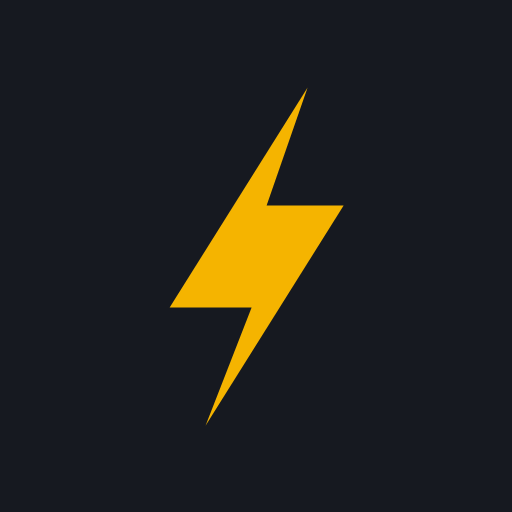
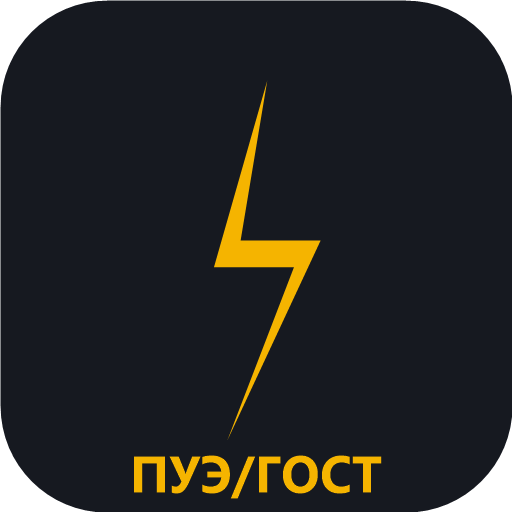
Add files via upload

diff --git a/index.html b/index.html
@@ -6,14 +6,14 @@
 <meta name="theme-color" content="#0d0f13">
 <meta name="apple-mobile-web-app-capable" content="yes">
 <meta name="apple-mobile-web-app-status-bar-style" content="black-translucent">
-<meta name="apple-mobile-web-app-title" content="Электросово">
-<meta name="description" content="Офлайн-справочник по нормам электромонтажа в квартирах и частных домах. ПУЭ-7, ГОСТ Р 50571, СП 256.">
+<meta name="apple-mobile-web-app-title" content="ПУЭ/ГОСТ">
+<meta name="description" content="ПУЭ/ГОСТ — офлайн-справочник по нормам электромонтажа в квартирах и частных домах. ПУЭ-7, ГОСТ Р 50571, СП 256.">
 <meta name="mobile-web-app-capable" content="yes">
 <link rel="manifest" href="manifest.webmanifest">
 <link rel="apple-touch-icon" href="icons/apple-touch-icon.png">
 <link rel="icon" type="image/svg+xml" href="icons/icon-192x192.svg">
 <link rel="icon" type="image/png" href="icons/icon-192.png">
-<title>Справочник электромонтажника</title>
+<title>ПУЭ/ГОСТ</title>
 <style>
 *{box-sizing:border-box;margin:0;padding:0}
 :root{
@@ -29,10 +29,12 @@ body{
   background:radial-gradient(ellipse at top left,rgba(245,180,0,.06),transparent 45%),
   radial-gradient(ellipse at bottom right,rgba(193,122,74,.07),transparent 50%),var(--bg);
   color:var(--txt);font-family:system-ui,-apple-system,BlinkMacSystemFont,'Segoe UI',sans-serif;
-  padding:16px 16px calc(72px + var(--safe-b));
+  padding:calc(92px + env(safe-area-inset-top)) 16px calc(72px + var(--safe-b));
   min-height:100vh;min-height:100dvh;
   -webkit-font-smoothing:antialiased;-webkit-tap-highlight-color:transparent;
 }
+.tbrand{position:fixed;top:0;left:0;right:0;z-index:85;height:74px;display:flex;align-items:center;justify-content:center;padding-top:env(safe-area-inset-top);background:linear-gradient(180deg,rgba(13,15,19,.96),rgba(13,15,19,.82) 72%,transparent);pointer-events:none;text-align:center;user-select:none}
+.tbrand span{color:var(--am);font-size:clamp(24px,6.5vw,38px);font-weight:900;letter-spacing:.24em;text-indent:.24em;text-shadow:0 0 26px rgba(245,180,0,.4)}
 .app{max-width:700px;margin:0 auto}
 
 .splash{position:fixed;inset:0;z-index:9999;background:var(--bg);display:flex;flex-direction:column;align-items:center;justify-content:center;transition:opacity .4s}
@@ -40,7 +42,7 @@ body{
 .splash svg{width:80px;height:80px;margin-bottom:16px}
 .splash p{color:var(--mut);font-size:14px;font-weight:600}
 
-.offline-banner{display:none;position:fixed;top:0;left:0;right:0;z-index:80;background:var(--dng);color:#fff;text-align:center;padding:8px;font-size:13px;font-weight:600}
+.offline-banner{display:none;position:fixed;top:calc(80px + env(safe-area-inset-top));left:14px;right:14px;z-index:84;background:var(--dng);color:#fff;text-align:center;padding:8px;border-radius:10px;font-size:13px;font-weight:600}
 .offline-banner.show{display:block}
 
 .install-banner{display:none;position:fixed;bottom:calc(68px + var(--safe-b));left:12px;right:12px;background:linear-gradient(135deg,var(--panel),var(--panel2));border:1px solid var(--am);border-radius:14px;padding:16px;z-index:100;box-shadow:0 8px 30px rgba(245,180,0,.2)}
@@ -190,6 +192,23 @@ mark{background:rgba(245,180,0,.25);color:var(--amb);padding:0 2px;border-radius
 .calc button{margin-top:12px;background:var(--am);color:#0d0f13;border:none;padding:10px;border-radius:8px;font-size:13px;font-weight:700;cursor:pointer;width:100%}
 .calc button:active{transform:scale(.97)}
 
+/* ---- Сечение кабеля (справочник + калькулятор) ---- */
+#kcTable{min-width:600px}
+.kc-g{text-align:center;white-space:nowrap}
+.kc-g.closed{color:var(--blue)}
+.sec-badge{min-width:78px;text-align:center;padding:10px 12px;border-radius:10px;background:linear-gradient(180deg,var(--amb),var(--am));color:#0d0f13}
+.sec-badge b{display:block;font-size:22px;line-height:1.1}
+.sec-badge span{font-size:10px;opacity:.85}
+.resbox{background:rgba(245,180,0,.06);border:1px solid var(--bdr);border-radius:8px;padding:12px;font-size:12px;line-height:1.6}
+.resbox b{color:var(--amb)}
+.resbox ul{margin:10px 0 0;padding-left:18px}
+.resbox ul li{margin:4px 0}
+.sw-cu,.sw-al,.sw-o,.sw-c{display:inline-block;width:12px;height:12px;border-radius:3px;flex:none}
+.sw-cu{background:#c96f1b}
+.sw-al{background:#8a93a3}
+.sw-o{background:repeating-linear-gradient(45deg,#f5b301 0 5px,#1d1d1f 5px 10px)}
+.sw-c{background:repeating-linear-gradient(135deg,#4a90d9 0 5px,#173f78 5px 10px)}
+
 .radio-row{display:flex;gap:8px;flex-wrap:wrap;align-items:center}
 .radio-row label{display:inline-flex;align-items:center;gap:5px;font-size:12px;color:var(--mut);cursor:pointer}
 
@@ -199,7 +218,7 @@ mark{background:rgba(245,180,0,.25);color:var(--amb);padding:0 2px;border-radius
   body{background:#fff;color:#000;padding:10px}
   .card,.pnl{background:#fff;border:1px solid #ddd}
   .cat-h{background:#f5f5f5;color:#000}
-  .bnav,.install-banner,.acts,.sw,.offline-banner,.splash{display:none!important}
+  .bnav,.install-banner,.acts,.sw,.offline-banner,.splash,.tbrand{display:none!important}
   .cat-b{max-height:none!important;padding:12px!important}
   th{color:#333;background:#eee}
   table{background:#fff}
@@ -208,9 +227,11 @@ mark{background:rgba(245,180,0,.25);color:var(--amb);padding:0 2px;border-radius
 </head>
 <body>
 
+<div class="tbrand"><span>BELYAEV_PROJECT</span></div>
+
 <div class="splash" id="splash">
-  <svg viewBox="0 0 192 192" fill="none"><rect width="192" height="192" rx="40" fill="#161920"/><path d="M100 30L80 100l30 0-25 65 35-75-30 0z" fill="#f5b400"/></svg>
-  <p>Справочник электромонтажника</p>
+  <svg viewBox="0 0 192 192" fill="none"><rect width="192" height="192" rx="40" fill="#161920"/><path d="M100 30L80 100l30 0-25 65 35-75-30 0z" fill="#f5b400"/><text x="96" y="188" text-anchor="middle" font-family="Segoe UI,system-ui,sans-serif" font-size="20" font-weight="700" fill="#f5b400">ПУЭ/ГОСТ</text></svg>
+  <p>ПУЭ/ГОСТ</p>
 </div>
 
 <div class="offline-banner" id="offlineBanner">Нет соединения — справочник доступен офлайн</div>
@@ -220,8 +241,8 @@ mark{background:rgba(245,180,0,.25);color:var(--amb);padding:0 2px;border-radius
 <!-- ==================== PAGE: СПРАВОЧНИК ==================== -->
 <div class="pg a" id="pRef">
   <header>
-    <p class="eye">Электромонтаж · ПУЭ-7</p>
-    <h1>Справочник электромонтажника</h1>
+    <p class="eye">Электромонтаж · ПУЭ-7 · ГОСТ</p>
+    <h1>ПУЭ/ГОСТ</h1>
     <p class="sub">Нормы для квартир и частных домов</p>
   </header>
   <svg class="wire" viewBox="0 0 1000 10" preserveAspectRatio="none"><line x1="0" y1="5" x2="1000" y2="5" stroke="#c17a4a" stroke-width="1" stroke-dasharray="2 6"/><circle cx="20" cy="5" r="2.5" fill="#f5b400"/><circle cx="500" cy="5" r="2.5" fill="#c17a4a"/><circle cx="980" cy="5" r="2.5" fill="#f5b400"/></svg>
@@ -263,6 +284,87 @@ mark{background:rgba(245,180,0,.25);color:var(--amb);padding:0 2px;border-radius
     <p class="eye">Инструменты</p>
     <h1>Калькуляторы</h1>
   </header>
+
+  <div class="card">
+    <h3>Сечение кабеля: справочник и калькулятор <span class="pue">(по ПУЭ)</span></h3>
+
+    <div class="tg" id="kcTabTg">
+      <button class="mbtn a" data-kc-tab="ref" onclick="kcTab('ref')">Справочная таблица</button>
+      <button class="mbtn" data-kc-tab="calc" onclick="kcTab('calc')">Калькулятор</button>
+      <span class="th"></span>
+    </div>
+
+    <div class="tg" id="kcMatTg" style="margin-top:10px">
+      <button class="mbtn a" data-kc-mat="cu" onclick="kcMat('cu')">Медь</button>
+      <button class="mbtn" data-kc-mat="al" onclick="kcMat('al')">Алюминий</button>
+      <span class="th"></span>
+    </div>
+
+    <div class="tg-h">Допустимые токовые нагрузки проводов и кабелей при напряжении 220 В и 380 В. Открытая и скрытая прокладка.</div>
+
+    <div id="kcViewRef">
+      <div class="tbl-scroll">
+        <table id="kcTable">
+          <thead>
+            <tr>
+              <th rowspan="2">Сечение, мм²</th>
+              <th colspan="3" class="kc-g open">Открытая проводка</th>
+              <th colspan="3" class="kc-g closed">Скрытая проводка</th>
+            </tr>
+            <tr>
+              <th class="num">Ток, А</th><th class="num">220 В, кВт</th><th class="num">380 В, кВт</th>
+              <th class="num">Ток, А</th><th class="num">220 В, кВт</th><th class="num">380 В, кВт</th>
+            </tr>
+          </thead>
+          <tbody></tbody>
+        </table>
+      </div>
+      <div style="display:flex;gap:12px;flex-wrap:wrap;font-size:11px;color:var(--mut);margin-top:8px">
+        <span style="display:inline-flex;align-items:center;gap:5px"><i class="sw sw-cu"></i> Медь</span>
+        <span style="display:inline-flex;align-items:center;gap:5px"><i class="sw sw-al"></i> Алюминий</span>
+        <span style="display:inline-flex;align-items:center;gap:5px"><i class="sw sw-o"></i> Открытая (воздух, кабель-канал)</span>
+        <span style="display:inline-flex;align-items:center;gap:5px"><i class="sw sw-c"></i> Скрытая (стена, труба, грунт)</span>
+      </div>
+      <p class="pue" style="margin-top:8px">«—» — не применяется (сечения ниже 2 мм² не используются для силовых сетей) либо данные не нормируются. Мощность при 380 В — упрощённая оценка P ≈ I×380 (без учёта cos φ).</p>
+    </div>
+
+    <div id="kcViewCalc" style="display:none">
+      <div class="tg" id="kcModeTg">
+        <button class="mbtn a" data-kc-mode="pw" onclick="kcMode('pw')">По мощности, кВт</button>
+        <button class="mbtn" data-kc-mode="cur" onclick="kcMode('cur')">По току, А</button>
+        <span class="th"></span>
+      </div>
+      <div class="calc" style="margin-top:12px">
+        <div>
+          <label id="kcLbl">Мощность нагрузки, кВт</label>
+          <input id="kcVal" type="number" min="0" step="any" placeholder="Например: 5.5">
+        </div>
+        <div>
+          <label>Материал жилы</label>
+          <select id="kcMat">
+            <option value="cu">Медь</option>
+            <option value="al">Алюминий</option>
+          </select>
+        </div>
+        <div>
+          <label>Способ прокладки</label>
+          <select id="kcLay">
+            <option value="open">Открытая (воздух, кабель-канал)</option>
+            <option value="closed">Скрытая (стена, труба, грунт)</option>
+          </select>
+        </div>
+        <div>
+          <label>Напряжение сети</label>
+          <select id="kcVolt">
+            <option value="220">220 В (однофазная)</option>
+            <option value="380">380 В (трёхфазная)</option>
+          </select>
+        </div>
+      </div>
+      <button class="btn bp bf" onclick="kcCalc()">Рассчитать сечение</button>
+      <div class="resbox" id="kcRes" style="display:none;margin-top:12px"></div>
+    </div>
+  </div>
 
   <div class="card">
     <h3>Подбор сечения и автомата</h3>
@@ -392,7 +494,7 @@ mark{background:rgba(245,180,0,.25);color:var(--amb);padding:0 2px;border-radius
 
 </div><!-- .app -->
 
-<div class="install-banner" id="iBan"><p>Установить справочник на экран?</p><div class="row"><button class="inst" onclick="instApp()">Установить</button><button class="inst2" onclick="disInst()">Позже</button></div></div>
+<div class="install-banner" id="iBan"><p>Установить ПУЭ/ГОСТ на экран?</p><div class="row"><button class="inst" onclick="instApp()">Установить</button><button class="inst2" onclick="disInst()">Позже</button></div></div>
 <div class="toast" id="toast"></div>
 
 <nav class="bnav">
@@ -564,6 +666,101 @@ function calcUzo(){
   out.innerHTML='<b>УЗО:</b> IΔn '+rec+'<br><b>Номинал УЗО:</b> ≥'+uzoNom+' А<br><b>Селективность:</b> вышестоящее ≥ 3× (7.1.73)';
 }
 
+// ====== Сечение кабеля: справочник + калькулятор (по данным таблицы, ПУЭ) ======
+var kcRows=[
+  {s:"0.5",o:{cu:{i:11,p220:2.4,p380:null},al:{i:null,p220:null,p380:null}},c:{cu:{i:null,p220:null,p380:null},al:{i:null,p220:null,p380:null}}},
+  {s:"0.75",o:{cu:{i:15,p220:3.3,p380:null},al:{i:null,p220:null,p380:null}},c:{cu:{i:null,p220:null,p380:null},al:{i:null,p220:null,p380:null}}},
+  {s:"1.0",o:{cu:{i:17,p220:3.7,p380:6.4},al:{i:null,p220:null,p380:null}},c:{cu:{i:14,p220:3.0,p380:5.3},al:{i:null,p220:null,p380:null}}},
+  {s:"1.5",o:{cu:{i:23,p220:5.0,p380:8.7},al:{i:null,p220:null,p380:null}},c:{cu:{i:15,p220:3.3,p380:5.7},al:{i:null,p220:null,p380:null}}},
+  {s:"2.0",o:{cu:{i:26,p220:5.7,p380:9.8},al:{i:21,p220:4.6,p380:7.9}},c:{cu:{i:19,p220:4.1,p380:7.2},al:{i:14,p220:3.0,p380:5.3}}},
+  {s:"2.5",o:{cu:{i:30,p220:6.6,p380:11.0},al:{i:24,p220:5.2,p380:9.1}},c:{cu:{i:21,p220:4.6,p380:7.9},al:{i:16,p220:3.5,p380:6.0}}},
+  {s:"4.0",o:{cu:{i:41,p220:9.0,p380:15.0},al:{i:32,p220:7.0,p380:12.0}},c:{cu:{i:27,p220:5.9,p380:10.0},al:{i:21,p220:4.6,p380:7.9}}},
+  {s:"6.0",o:{cu:{i:50,p220:11.0,p380:19.0},al:{i:39,p220:8.5,p380:14.0}},c:{cu:{i:34,p220:7.4,p380:12.0},al:{i:26,p220:5.7,p380:9.8}}},
+  {s:"10.0",o:{cu:{i:80,p220:17.0,p380:30.0},al:{i:60,p220:13.0,p380:22.0}},c:{cu:{i:50,p220:11.0,p380:19.0},al:{i:38,p220:8.3,p380:14.0}}},
+  {s:"16.0",o:{cu:{i:100,p220:22.0,p380:38.0},al:{i:75,p220:16.0,p380:28.0}},c:{cu:{i:80,p220:17.0,p380:30.0},al:{i:55,p220:12.0,p380:20.0}}},
+  {s:"25.0",o:{cu:{i:140,p220:30.0,p380:53.0},al:{i:105,p220:23.0,p380:39.0}},c:{cu:{i:100,p220:22.0,p380:38.0},al:{i:65,p220:14.0,p380:24.0}}},
+  {s:"35.0",o:{cu:{i:170,p220:37.0,p380:64.0},al:{i:130,p220:28.0,p380:49.0}},c:{cu:{i:135,p220:29.0,p380:51.0},al:{i:75,p220:16.0,p380:28.0}}}
+];
+var kcBreakers=[6,10,16,20,25,32,40,50,63,80,100,125,160,200];
+var kcMatNow="cu",kcModeNow="pw";
+
+function kcSeg(id,name,val){
+  var tg=document.getElementById(id);
+  var btns=tg.querySelectorAll('.mbtn');
+  var idx=-1;
+  for(var i=0;i<btns.length;i++){
+    var act=btns[i].getAttribute('data-'+name)===val;
+    btns[i].classList.toggle('a',act);
+    if(act)idx=i;
+  }
+  tg.classList.toggle('on',idx===btns.length-1);
+}
+function kcTab(v){kcSeg('kcTabTg','kc-tab',v);document.getElementById('kcViewRef').style.display=v==='calc'?'none':'';document.getElementById('kcViewCalc').style.display=v==='calc'?'':'none'}
+function kcMat(m){kcMatNow=m;kcSeg('kcMatTg','kc-mat',m);kcRender()}
+function kcMode(m){
+  kcModeNow=m;kcSeg('kcModeTg','kc-mode',m);
+  var lbl=document.getElementById('kcLbl'),inp=document.getElementById('kcVal');
+  if(m==='pw'){lbl.textContent='Мощность нагрузки, кВт';inp.placeholder='Например: 5.5'}else{lbl.textContent='Расчётный ток нагрузки, А';inp.placeholder='Например: 25'}
+}
+function kcDash(v){return v==null?'<td class="pue" style="text-align:center">&mdash;</td>':'<td class="num" style="color:var(--blue);font-weight:600">'+v+'</td>'}
+function kcRender(){
+  var tb=document.querySelector('#kcTable tbody'),html='';
+  for(var r=0;r<kcRows.length;r++){
+    var row=kcRows[r],cells='';
+    for(var k=0;k<2;k++){
+      var kind=k===0?'o':'c';
+      var m=row[kind][kcMatNow];
+      cells+=kcDash(m.i)+kcDash(m.p220)+kcDash(m.p380);
+    }
+    html+='<tr><th>'+row.s+'</th>'+cells+'</tr>';
+  }
+  tb.innerHTML=html;
+}
+function kcFmt(x){return (Math.round(x*10)/10).toLocaleString('ru-RU')}
+function kcBreakerFor(cur,max){
+  for(var i=0;i<kcBreakers.length;i++){var b=kcBreakers[i];if(b>=cur&&b<=max)return b}
+  return null;
+}
+function kcCalc(){
+  var box=document.getElementById('kcRes');
+  box.style.display='block';
+  var raw=parseFloat(document.getElementById('kcVal').value);
+  var mat=document.getElementById('kcMat').value;
+  var lay=document.getElementById('kcLay').value;
+  var volt=parseInt(document.getElementById('kcVolt').value,10);
+  var kind=lay==='open'?'o':'c';
+  if(!raw||raw<=0){box.innerHTML='<div class="warn-note">Введите положительное значение нагрузки.</div>';return}
+  var req=kcModeNow==='pw'?raw*1000/volt:raw;
+  var found=null;
+  for(var i=0;i<kcRows.length;i++){var ro=kcRows[i][kind][mat];if(ro&&ro.i>=req){found=kcRows[i];break}}
+  var matName=mat==='cu'?'медный':'алюминиевый';
+  var layName=lay==='open'?'открытая прокладка':'скрытая прокладка';
+  if(!found){
+    var maxA=kcRows[kcRows.length-1][kind][mat].i;
+    box.innerHTML='<div class="warn-note">Нагрузка '+kcFmt(req)+' А превышает допустимый ток для всех сечений таблицы ('+maxA+' А максимум). Возьмите кабель большего сечения — нужна кабельная линия большего пучка или расчёт по ПУЭ/ГОСТ.</div>';
+    return;
+  }
+  var row=found[kind][mat];
+  var p=row.i*volt/1000;
+  var brk=kcBreakerFor(req,row.i);
+  var html='<div style="display:flex;align-items:center;gap:14px;flex-wrap:wrap">'+
+    '<div class="sec-badge"><b>'+found.s+'</b><span>мм&sup2;</span></div>'+
+    '<div><b style="font-size:15px">Сечение: '+found.s+' мм&sup2; ('+matName+', '+layName+')</b>'+
+    '<p style="margin:6px 0 0;font-size:12px;color:var(--mut)">Расчётный ток: '+kcFmt(req)+' А &middot; Допустимый ток кабеля: '+row.i+' А</p></div>'+
+    '</div>'+
+    '<ul>'+
+      '<li>Допустимая мощность при напряжении '+volt+' В: <b>'+kcFmt(p)+' кВт</b></li>'+
+      (brk?'<li>Рекомендуемый автомат защиты: <b>на '+brk+' А</b> (ближайший стандартный номинал &ge; расчётного тока и &le; допустимого тока кабеля)</li>':'<li>Стандартного автомата, подходящего под эту нагрузку, в таблице нет — требуется индивидуальный подбор защиты.</li>')+
+      '<li>Запас по току кабеля: <b>'+kcFmt(((row.i-req)/req)*100)+'%</b></li>'+
+    '</ul>';
+  if(brk&&req>row.i*0.8){
+    html+='<div class="note" style="margin-top:12px;border-left-color:var(--am);background:rgba(245,180,0,.08);color:var(--amb)">Кабель выбран близко к пределу ('+kcFmt((req/row.i)*100)+'% от допустимого тока). Для длительной работы лучше взять сечение на ступень больше.</div>';
+  }else{
+    html+='<div class="note" style="margin-top:12px">Расчёт выполнен по справочной таблице (ПУЭ). Для критичных объектов — отдельный проект у специалиста.</div>';
+  }
+  box.innerHTML=html;
+}
+
 // ====== PWA ======
 var dP=null;
 if('serviceWorker' in navigator){navigator.serviceWorker.register('./sw.js',{scope:'./'}).catch(function(){})}
@@ -599,6 +796,8 @@ function onCond(){
 // Init
 bSec();
 onCond();
+kcRender();
+document.getElementById('kcVal').addEventListener('keydown',function(e){if(e.key==='Enter')kcCalc()});
 window.addEventListener('load',function(){setTimeout(function(){document.getElementById('splash').classList.add('hide')},300)});
 </script>
 </body>

diff --git a/sw.js b/sw.js
@@ -1,7 +1,7 @@
-/* Справочник электромонтажника — Service Worker
+/* ПУЭ/ГОСТ — Service Worker
    Стратегия: cache-first для статики приложения, network-first для всего остального. */
 
-const CACHE_NAME = 'electro-spravochnik-v2';
+const CACHE_NAME = 'electro-spravochnik-v4';
 const APP_SHELL = [
   './',
   './index.html',

diff --git a/README.md b/README.md
@@ -1,4 +1,4 @@
-# ⚡ Справочник электромонтажника — PWA
+# ⚡ ПУЭ/ГОСТ — PWA
 
 Офлайн-приложение (Progressive Web App) с нормами электромонтажа в квартирах и частных домах.
 
@@ -22,6 +22,7 @@
 ├── sw.js                   # service worker (офлайн-кеш)
 ├── icons/
 │   ├── icon-192.png
+│   ├── icon-192x192.svg
 │   ├── icon-512.png
 │   ├── icon-maskable-512.png
 │   └── apple-touch-icon.png
@@ -38,7 +39,7 @@
 ```bash
 git init
 git add .
-git commit -m "PWA: справочник электромонтажника"
+git commit -m "PWA: ПУЭ/ГОСТ"
 git branch -M main
 git remote add origin https://github.com/<ВАШ-НИК>/<РЕПО>.git
 git push -u origin main
@@ -74,7 +75,7 @@ npx serve pwa
 
 ## 🔁 Обновление приложения
 
-При каждом пуше меняйте версию кеша в `sw.js` (`const CACHE_NAME = 'electro-spravochnik-v2'` → `-v3`, ...). Service worker автоматически обновит кеш у всех пользователей.
+При каждом пуше меняйте версию кеша в `sw.js` (`const CACHE_NAME = 'electro-spravochnik-v4'` → `-v4`, ...). Service worker автоматически обновит кеш у всех пользователей.
 
 ---
 
